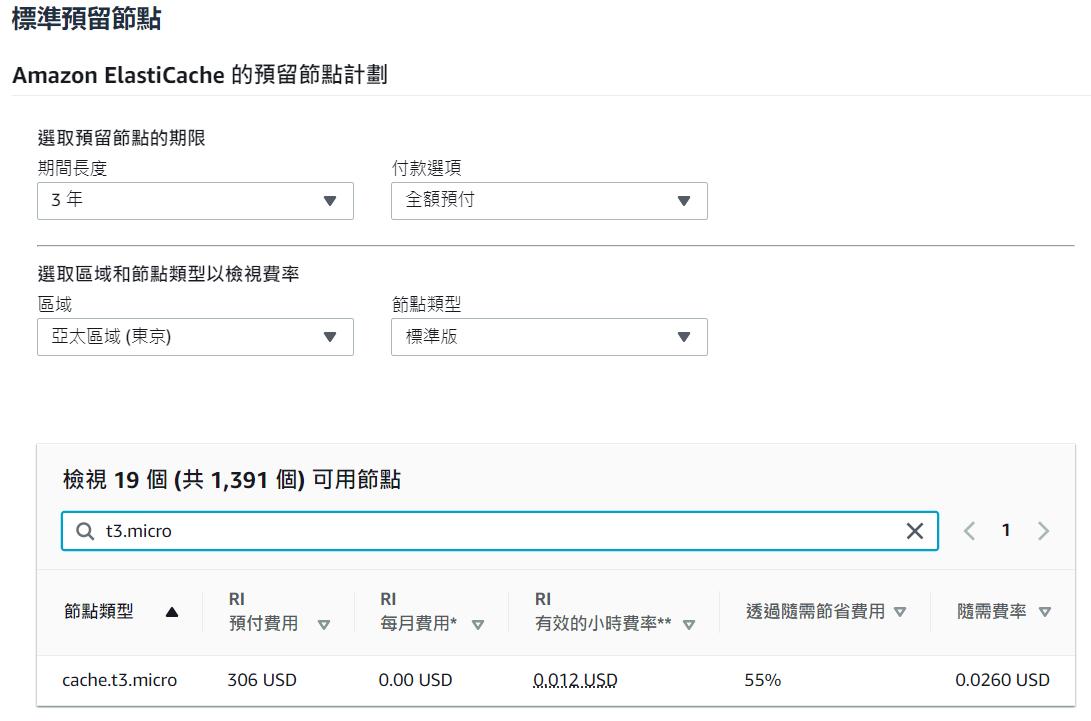
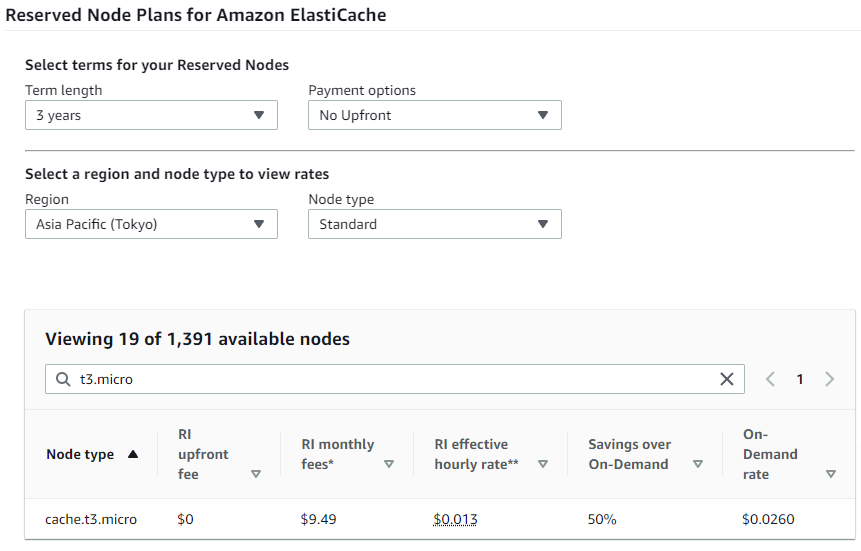
DOC: readme, redesign budget part

diff --git a/readme/data/budget.md b/readme/data/budget.md
@@ -2,8 +2,17 @@
 
 ## Current Equipments Pricing
 
+
+|              | level          | rate                |
+|:------------:|:--------------:|:-------------------:|
+|EC2           | t2.micro       | 6.282 USD per month |
+|MongoDB Atlas | Shared         | free                |
+|ElastiCache   | cache.t3.micro | 9.496 USD per month |
+
 <details>
   <summary>EC2</summary>
+
+  I chose Savings Plans (for 3 years) for a 43% saving over the on-demand plan.
 
   ![](../imgs/pricing-EC2.png)
 
@@ -12,12 +21,16 @@
 <details>
   <summary>ElastiCache</summary>
 
+  I chose Reserved Nodes (for 3 years) for a 50% saving over the on-demand plan.
+
   ![](../imgs/pricing-ElastiCache.png)
 
 </details>
 
 <details>
   <summary>MongoDB</summary>
+
+  I chose the free plan.
 
   ![](../imgs/pricing-MongoDB.png)
 
@@ -29,14 +42,17 @@ Visits     | Bounce rate | Requests | Peak Requests |
 :---------:|:-----------:|:--------:|:-------------:|
 1.4M/month | 61.66%      | 0.08/sec | 8/sec         |
 
-- The data came from [Similarweb](https://www.similarweb.com/zh-tw/)
+- The Peak Requests is estimated to be 100 times higher than the typical one, which must be checked on a regular basis in production. 
+
+- The site traffic data came from [Similarweb](https://www.similarweb.com/zh-tw/).
 
 <details>
-  <summary>Data</summary>
+  <summary>Data Details</summary>
 
-- The Peak Requests is estimated to be 100 times higher than the typical one. This must be checked on a regular basis in production. 
+  ![](../imgs/swagger-traffic.png)
 
-<br />
+</details>
+
 
 ## Performance Test Result (with [k6](https://k6.io/) on the Mock Response API)
 
